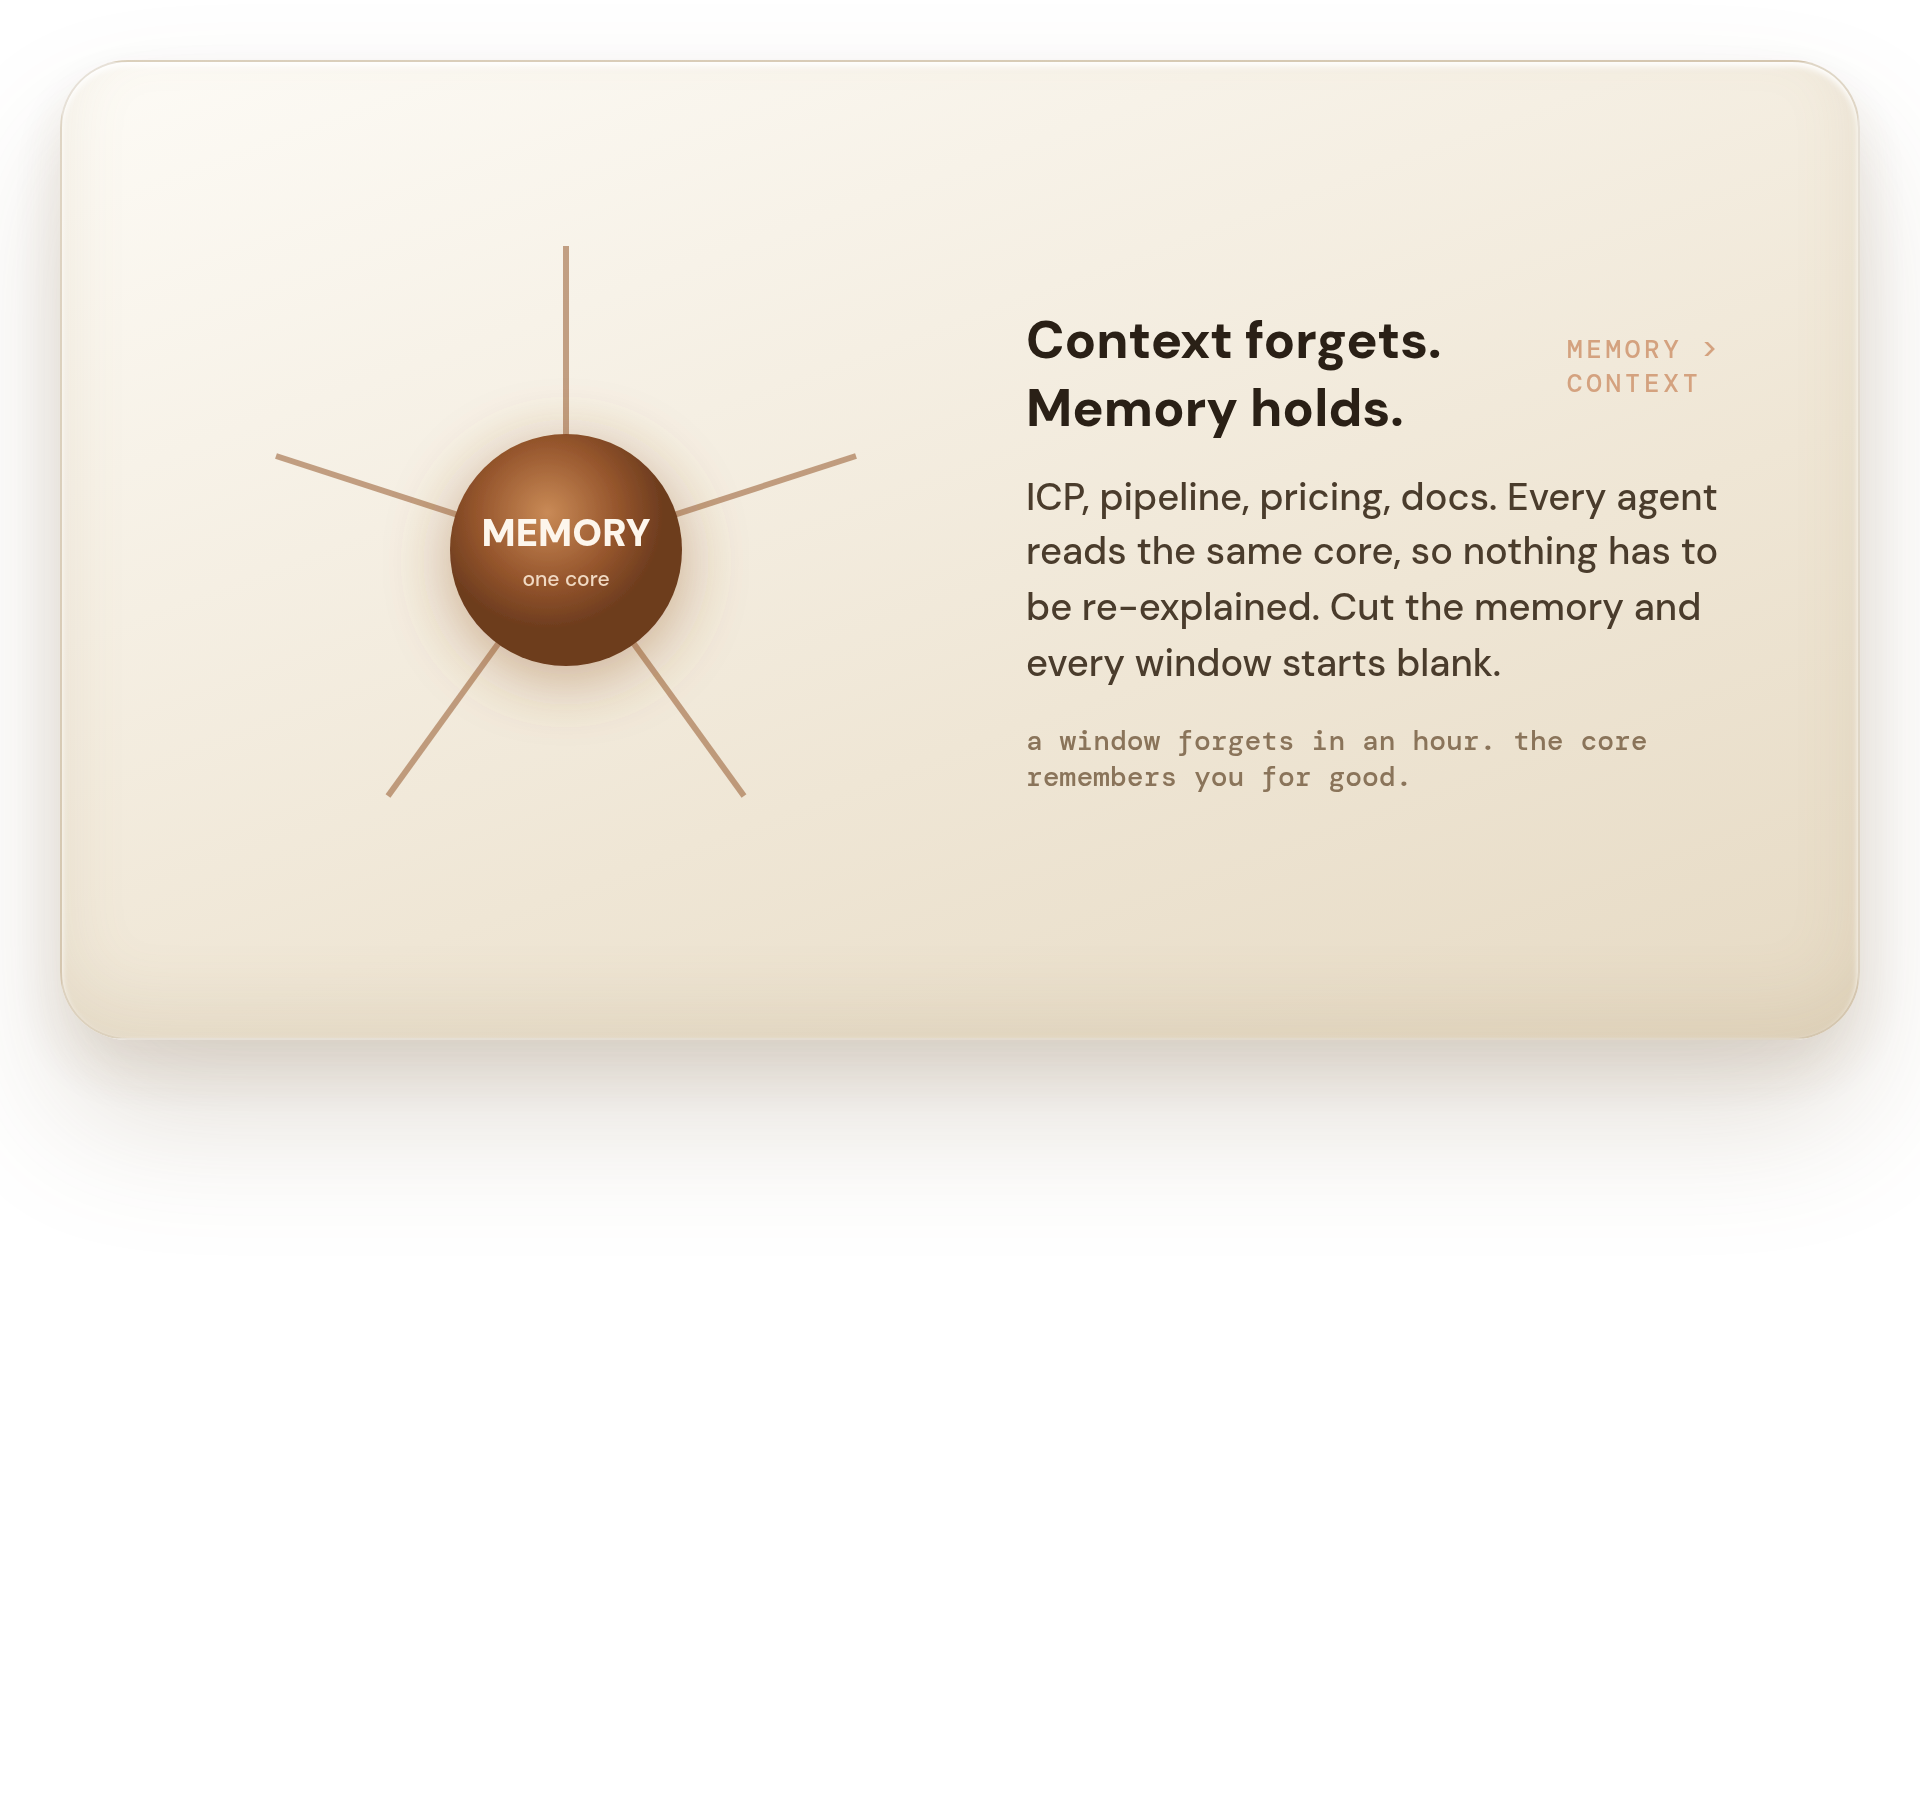
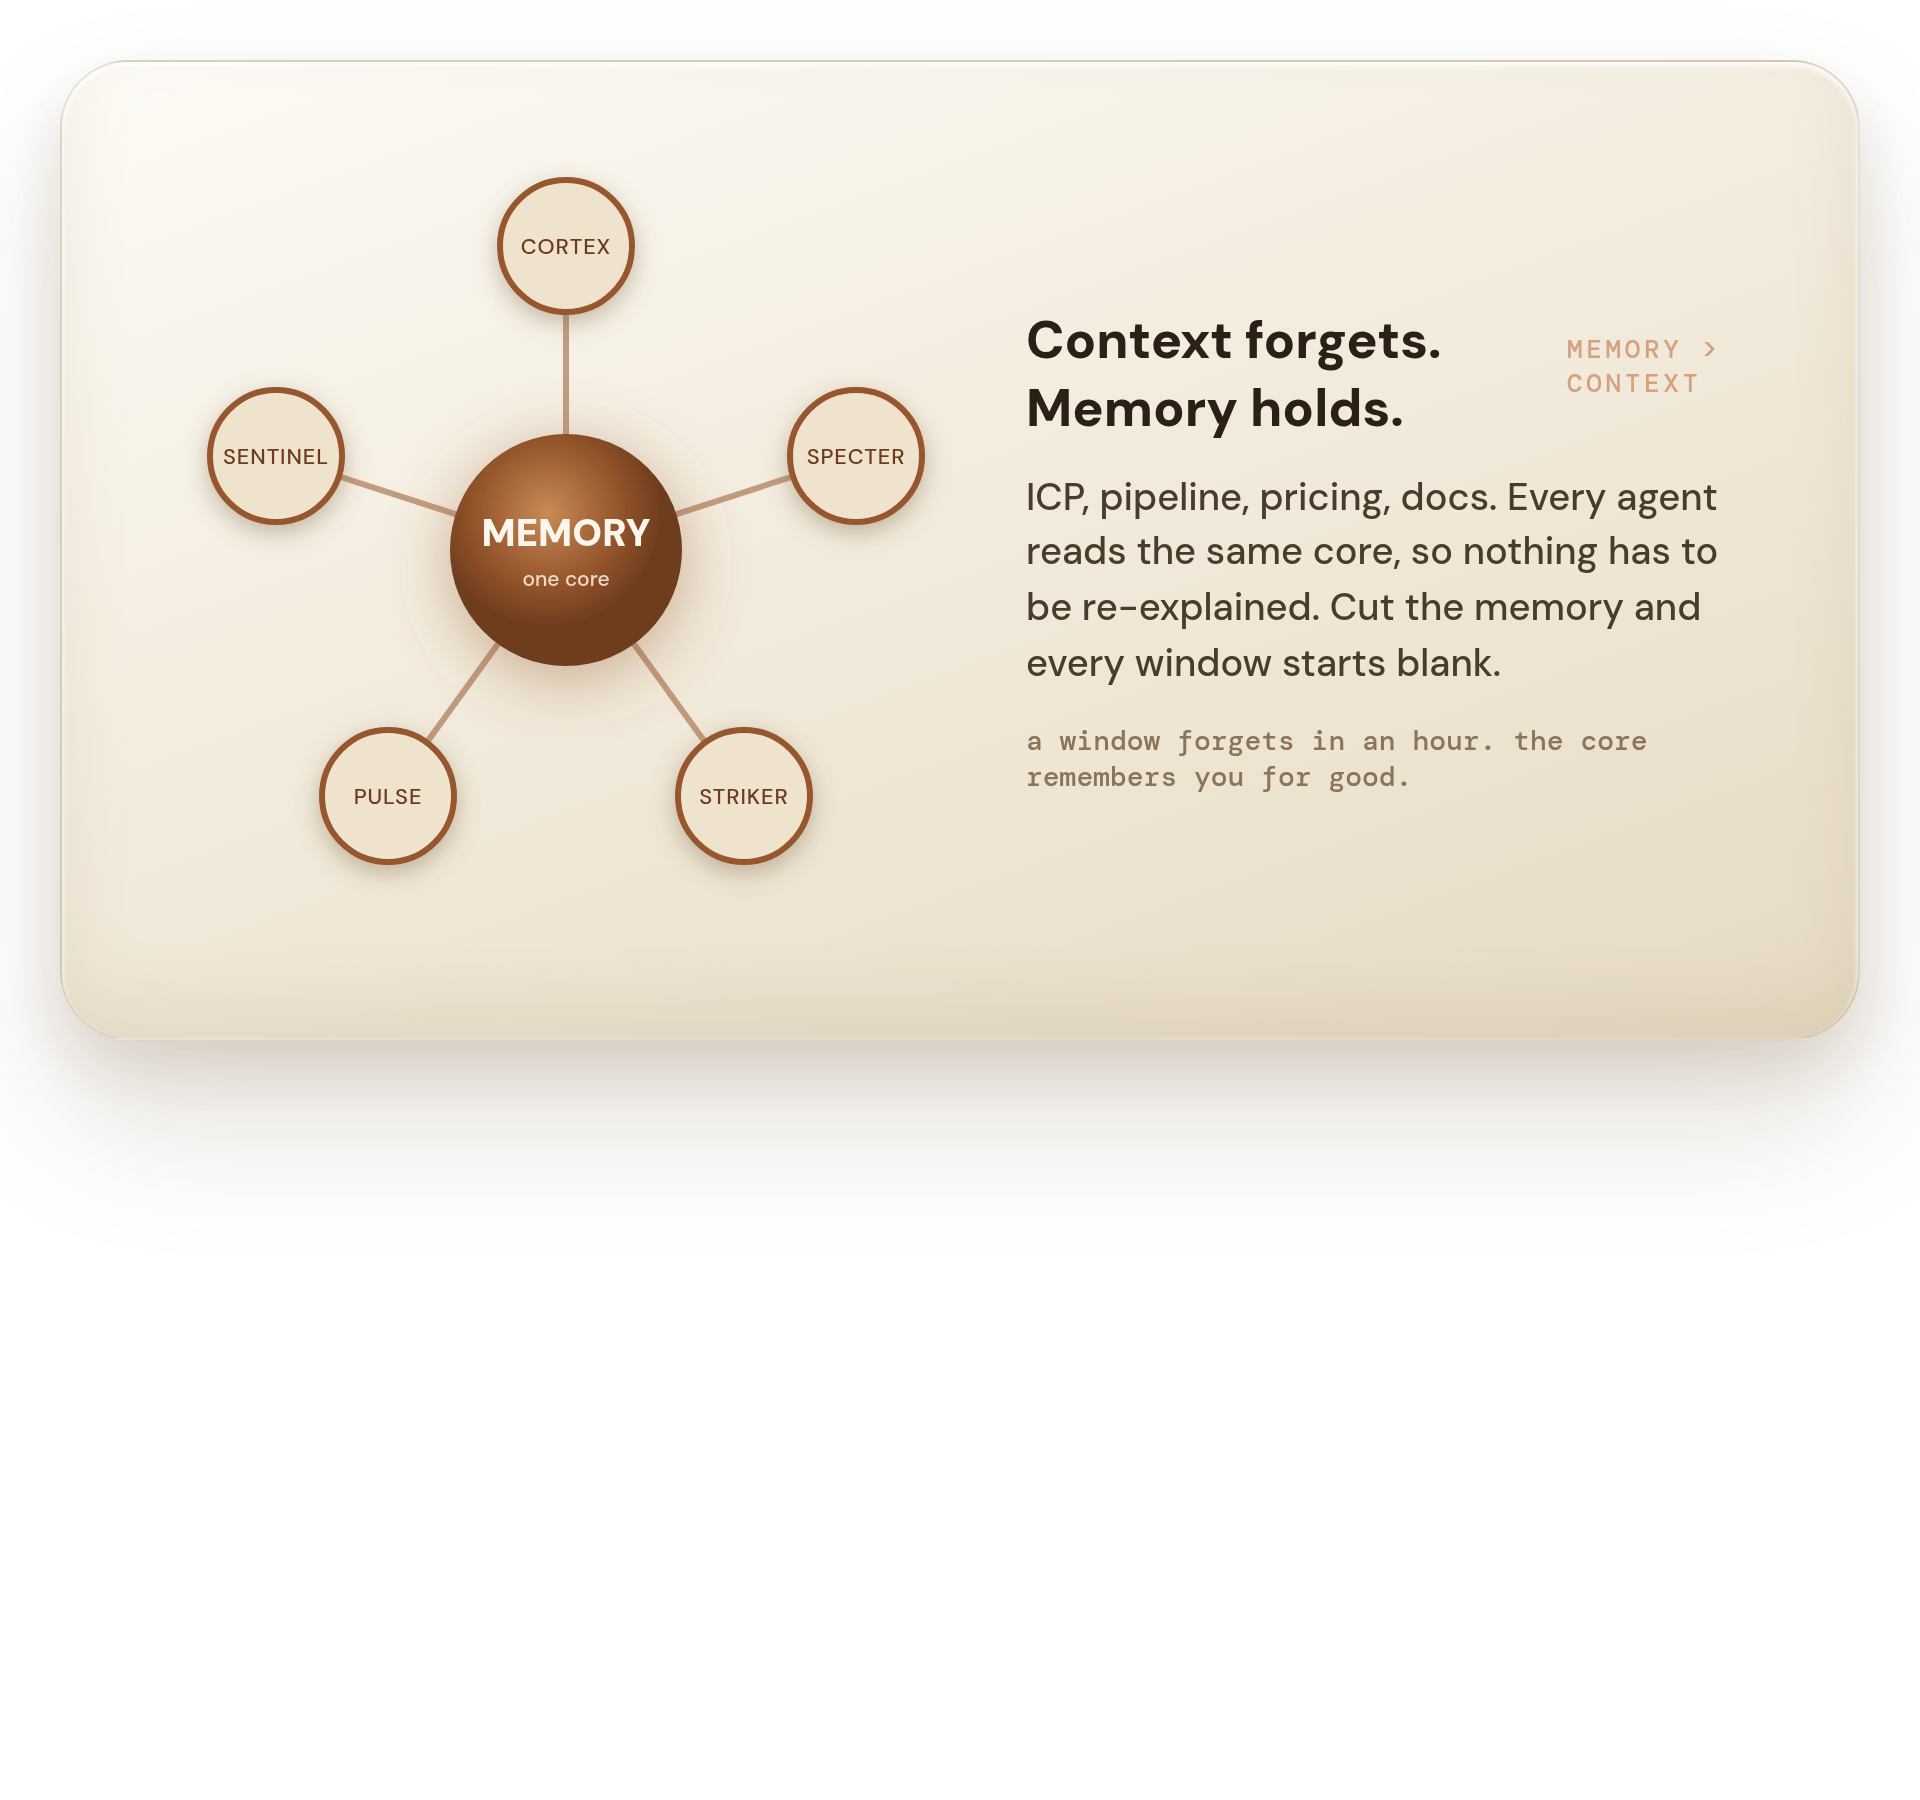
IG Scraped 2 Wave A: final decks authored

diff --git a/content/_hitl-src/s26monthsbuilding_t3.py b/content/_hitl-src/s26monthsbuilding_t3.py
@@ -86,7 +86,7 @@ def memory():
         <defs><radialGradient id="mc" cx="42%" cy="34%"><stop offset="0%" stop-color="#c98a56"/><stop offset="60%" stop-color="#96562d"/><stop offset="100%" stop-color="#6d3c1e"/></radialGradient>
         <filter id="mg" x="-80%" y="-80%" width="260%" height="260%"><feDropShadow dx="0" dy="6" stdDeviation="16" flood-color="rgba(150,90,45,.45)"/></filter>
         <filter id="ndf" x="-80%" y="-80%" width="260%" height="260%"><feDropShadow dx="0" dy="4" stdDeviation="6" flood-color="rgba(120,95,60,.4)"/></filter></defs>
-        {lines}
+        {lines}{nodes}
         <g filter="url(#mg)"><circle cx="{cx}" cy="{cy}" r="58" fill="url(#mc)"/></g>
         <text x="{cx}" y="{cy-2}" text-anchor="middle" font-family="DM Sans" font-weight="900" font-size="19" fill="#fdf6ec">MEMORY</text>
         <text x="{cx}" y="{cy+18}" text-anchor="middle" font-family="DM Mono" font-size="10.5" fill="#f0d9c2">one core</text>
